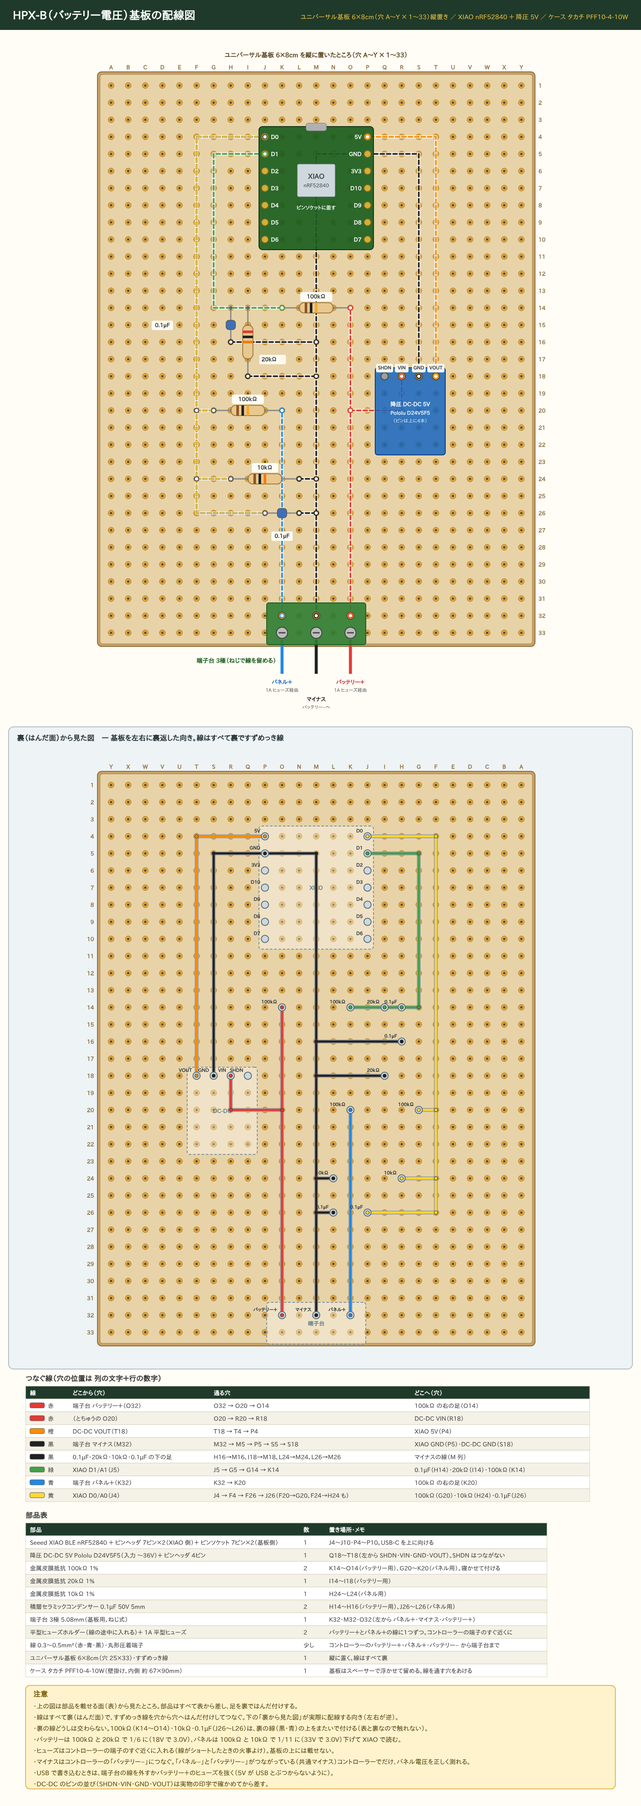
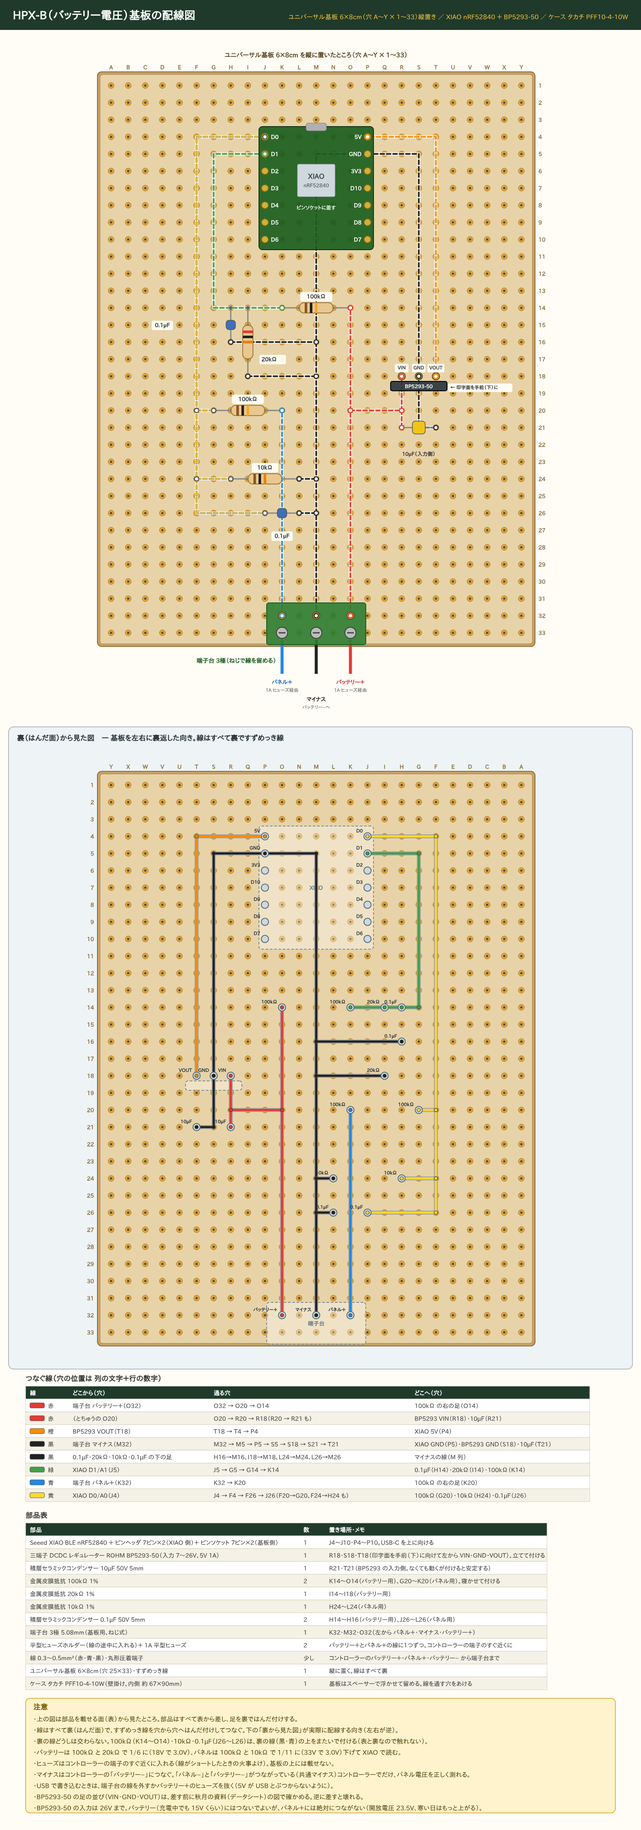
HPX-B: 降圧の部品を ROHM BP5293-50 (秋月) に変更、入力側に 10µF を追加
Claude-Session: https://claude.ai/code/session_01LCC9B6JQiGFYsm1dg11V69

Changed region(s): [[0.0307, 0.0, 0.9507, 1.0]]

diff --git a/site/device-b.html b/site/device-b.html
@@ -204,12 +204,13 @@
         <tr><td class="part"><b><a href="https://akizukidenshi.com/catalog/goods/search.aspx?keyword=%E9%87%91%E5%B1%9E%E7%9A%AE%E8%86%9C%E6%8A%B5%E6%8A%97+20k%CE%A9" target="_blank" rel="noopener">抵抗 20kΩ</a></b><span>金属皮膜抵抗 1/4W 20kΩ 1%</span></td><td class="shop">秋月電子通商</td><td class="n" data-v="数">1</td></tr>
         <tr><td class="part"><b><a href="https://akizukidenshi.com/catalog/g/g108550/" target="_blank" rel="noopener">抵抗 10kΩ</a></b><span>小型 金属皮膜抵抗 1/4W 10kΩ (100本入り)</span><span class="price">300円 / 100本入り</span></td><td class="shop">秋月電子通商</td><td class="n" data-v="数">1</td></tr>
         <tr><td class="part"><b><a href="https://akizukidenshi.com/catalog/g/g117059/" target="_blank" rel="noopener">積層セラミックコンデンサー 0.1μF50V C0G 5mm</a></b><span>コンデンサー0.1μF</span><span class="price">250円 / 10個入り</span></td><td class="shop">秋月電子通商</td><td class="n" data-v="数">2</td></tr>
+        <tr><td class="part"><b><a href="https://akizukidenshi.com/catalog/goods/search.aspx?keyword=%E7%A9%8D%E5%B1%A4%E3%82%BB%E3%83%A9%E3%83%9F%E3%83%83%E3%82%AF%E3%82%B3%E3%83%B3%E3%83%87%E3%83%B3%E3%82%B5%E3%83%BC+10%CE%BCF+50V" target="_blank" rel="noopener">コンデンサー 10μF</a></b><span>積層セラミックコンデンサー 10μF 50V 5mm (BP5293-50 の入力側)</span></td><td class="shop">秋月電子通商</td><td class="n" data-v="数">1</td></tr>
         <tr><td class="part"><b><a href="https://akizukidenshi.com/catalog/goods/search.aspx?keyword=%E3%82%BF%E3%83%BC%E3%83%9F%E3%83%8A%E3%83%AB%E3%83%96%E3%83%AD%E3%83%83%E3%82%AF+3P+5.08mm" target="_blank" rel="noopener">端子台 3極</a></b><span>基板用ねじ式端子台 3P 5.08mm</span></td><td class="shop">秋月電子通商</td><td class="n" data-v="数">1</td></tr>
         <tr><td class="part"><b><a href="https://akizukidenshi.com/catalog/g/g103138/" target="_blank" rel="noopener">ピンソケット（メス）</a></b><span>シングルピンソケット (低メス)</span><span class="price">80円 / 20PIN</span></td><td class="shop">秋月電子通商</td><td class="n" data-v="数">7PIN×2</td></tr>
         <tr><td class="part"><b><a href="https://akizukidenshi.com/catalog/g/g102900/" target="_blank" rel="noopener">ピンヘッダー（オス）</a></b><span>ロープロファイルピンヘッダー(低オス) 7.7mm</span><span class="price">40円 / 40PIN</span></td><td class="shop">秋月電子通商</td><td class="n" data-v="数">7PIN×2</td></tr>
         <tr><td class="part"><b><a href="https://www.amazon.co.jp/s?k=%E3%82%B9%E3%82%BA%E3%83%A1%E3%83%83%E3%82%AD%E7%B7%9A%20TCW%200.5mm%2010m" target="_blank" rel="noopener">ジャンパー線</a></b><span>スズメッキ軟銅線 TCW 0.5mm 10m</span><span class="price">670円 / 10m</span></td><td class="shop">amazon</td><td class="n" data-v="数">適宜</td></tr>
         <tr class="cat"><th colspan="3">電源</th></tr>
-        <tr><td class="part"><b><a href="https://www.pololu.com/search?query=D24V5F5" target="_blank" rel="noopener">降圧 DC-DC コンバーター 5V</a></b><span>Pololu D24V5F5 (入力 〜36V、出力 5V 500mA、ピンヘッダー付き)</span></td><td class="shop">Pololu</td><td class="n" data-v="数">1</td></tr>
+        <tr><td class="part"><b><a href="https://akizukidenshi.com/catalog/g/g111188/" target="_blank" rel="noopener">三端子DCDCレギュレーター 5V</a></b><span>ROHM BP5293-50 (入力 7〜26V、出力 5V 1A)</span></td><td class="shop">秋月電子通商</td><td class="n" data-v="数">1</td></tr>
         <tr class="cat"><th colspan="3">ケース</th></tr>
         <tr><td class="part"><b><a href="https://www.monotaro.com/p/5512/8535/" target="_blank" rel="noopener">壁付ネットワークケース PFFシリーズ</a></b><span>タカチ　PFF10-4-10W</span><span class="price">639円</span></td><td class="shop">モノタロウ</td><td class="n" data-v="数">1</td></tr>
         <tr class="cat"><th colspan="3">ケース用基板</th></tr>
@@ -233,18 +234,18 @@
       <h2>作り方</h2>
       <p class="note">図を押すと、大きな画像が開きます。どの図もまだ実物で組んで確かめていません。取付穴の位置は目安なので、部品と基板の実物で確かめてから組み立ててください。</p>
       <figure class="wiring">
-        <figcaption><b>配線図</b>6×8cm のユニバーサル基板を縦に置き、XIAO・降圧 DC-DC・抵抗・端子台を並べる図です (表と裏、線はすべて裏)。ケースは HPX-Core 有線LAN版と同じ PFF10-4-10W です。</figcaption>
+        <figcaption><b>配線図</b>6×8cm のユニバーサル基板を縦に置き、XIAO・三端子 DCDC レギュレーター・抵抗・端子台を並べる図です (表と裏、線はすべて裏)。ケースは HPX-Core 有線LAN版と同じ PFF10-4-10W です。</figcaption>
         <a href="img/wiring/HPX-B_pcb.png" target="_blank" rel="noopener"><img src="img/wiring/HPX-B_pcb.png" alt="HPX-B 配線図" loading="lazy"></a>
       </figure>
       <div class="wtab"><h3>つなぐ線（穴の位置は 列の文字＋行の数字）</h3><div class="scroll"><table>
         <thead><tr><th>線</th><th>どこから（穴）</th><th>通る穴</th><th>どこへ（穴）</th></tr></thead>
-        <tbody><tr><td class="wc"><span class="sw" style="background:#e53935"></span>赤</td><td>端子台 バッテリー＋（O32）</td><td>O32 → O20 → O14</td><td>100kΩ の右の足（O14）</td></tr><tr><td class="wc"><span class="sw" style="background:#e53935"></span>赤</td><td>（とちゅうの O20）</td><td>O20 → R20 → R18</td><td>DC-DC VIN（R18）</td></tr><tr><td class="wc"><span class="sw" style="background:#fb8c00"></span>橙</td><td>DC-DC VOUT（T18）</td><td>T18 → T4 → P4</td><td>XIAO 5V（P4）</td></tr><tr><td class="wc"><span class="sw" style="background:#212121"></span>黒</td><td>端子台 マイナス（M32）</td><td>M32 → M5 → P5 → S5 → S18</td><td>XIAO GND（P5）・DC-DC GND（S18）</td></tr><tr><td class="wc"><span class="sw" style="background:#212121"></span>黒</td><td>0.1µF・20kΩ・10kΩ・0.1µF の下の足</td><td>H16→M16、I18→M18、L24→M24、L26→M26</td><td>マイナスの線（M 列）</td></tr><tr><td class="wc"><span class="sw" style="background:#43a047"></span>緑</td><td>XIAO D1/A1（J5）</td><td>J5 → G5 → G14 → K14</td><td>0.1µF（H14）・20kΩ（I14）・100kΩ（K14）</td></tr><tr><td class="wc"><span class="sw" style="background:#1e88e5"></span>青</td><td>端子台 パネル＋（K32）</td><td>K32 → K20</td><td>100kΩ の右の足（K20）</td></tr><tr><td class="wc"><span class="sw" style="background:#fdd835"></span>黄</td><td>XIAO D0/A0（J4）</td><td>J4 → F4 → F26 → J26（F20→G20、F24→H24 も）</td><td>100kΩ（G20）・10kΩ（H24）・0.1µF（J26）</td></tr></tbody>
+        <tbody><tr><td class="wc"><span class="sw" style="background:#e53935"></span>赤</td><td>端子台 バッテリー＋（O32）</td><td>O32 → O20 → O14</td><td>100kΩ の右の足（O14）</td></tr><tr><td class="wc"><span class="sw" style="background:#e53935"></span>赤</td><td>（とちゅうの O20）</td><td>O20 → R20 → R18（R20 → R21 も）</td><td>BP5293 VIN（R18）・10µF（R21）</td></tr><tr><td class="wc"><span class="sw" style="background:#fb8c00"></span>橙</td><td>BP5293 VOUT（T18）</td><td>T18 → T4 → P4</td><td>XIAO 5V（P4）</td></tr><tr><td class="wc"><span class="sw" style="background:#212121"></span>黒</td><td>端子台 マイナス（M32）</td><td>M32 → M5 → P5 → S5 → S18 → S21 → T21</td><td>XIAO GND（P5）・BP5293 GND（S18）・10µF（T21）</td></tr><tr><td class="wc"><span class="sw" style="background:#212121"></span>黒</td><td>0.1µF・20kΩ・10kΩ・0.1µF の下の足</td><td>H16→M16、I18→M18、L24→M24、L26→M26</td><td>マイナスの線（M 列）</td></tr><tr><td class="wc"><span class="sw" style="background:#43a047"></span>緑</td><td>XIAO D1/A1（J5）</td><td>J5 → G5 → G14 → K14</td><td>0.1µF（H14）・20kΩ（I14）・100kΩ（K14）</td></tr><tr><td class="wc"><span class="sw" style="background:#1e88e5"></span>青</td><td>端子台 パネル＋（K32）</td><td>K32 → K20</td><td>100kΩ の右の足（K20）</td></tr><tr><td class="wc"><span class="sw" style="background:#fdd835"></span>黄</td><td>XIAO D0/A0（J4）</td><td>J4 → F4 → F26 → J26（F20→G20、F24→H24 も）</td><td>100kΩ（G20）・10kΩ（H24）・0.1µF（J26）</td></tr></tbody>
       </table></div></div>
       <div class="wtab"><h3>部品の置き場所</h3><div class="scroll"><table>
         <thead><tr><th>部品</th><th>数</th><th>置き場所・メモ</th></tr></thead>
-        <tbody><tr><td>Seeed XIAO BLE nRF52840 ＋ ピンヘッダ 7ピン×2（XIAO 側）＋ ピンソケット 7ピン×2（基板側）</td><td>1</td><td>J4〜J10・P4〜P10。USB-C を上に向ける</td></tr><tr><td>降圧 DC-DC 5V Pololu D24V5F5（入力 〜36V）＋ ピンヘッダ 4ピン</td><td>1</td><td>Q18〜T18（左から SHDN・VIN・GND・VOUT）。SHDN はつながない</td></tr><tr><td>金属皮膜抵抗 100kΩ 1%</td><td>2</td><td>K14〜O14（バッテリー用）、G20〜K20（パネル用）。寝かせて付ける</td></tr><tr><td>金属皮膜抵抗 20kΩ 1%</td><td>1</td><td>I14〜I18（バッテリー用）</td></tr><tr><td>金属皮膜抵抗 10kΩ 1%</td><td>1</td><td>H24〜L24（パネル用）</td></tr><tr><td>積層セラミックコンデンサー 0.1µF 50V 5mm</td><td>2</td><td>H14〜H16（バッテリー用）、J26〜L26（パネル用）</td></tr><tr><td>端子台 3極 5.08mm（基板用、ねじ式）</td><td>1</td><td>K32・M32・O32（左から パネル＋・マイナス・バッテリー＋）</td></tr><tr><td>平型ヒューズホルダー（線の途中に入れる）＋ 1A 平型ヒューズ</td><td>2</td><td>バッテリー＋とパネル＋の線に1つずつ。コントローラーの端子のすぐ近くに</td></tr><tr><td>線 0.3〜0.5mm²（赤・青・黒）・丸形圧着端子</td><td>少し</td><td>コントローラーのバッテリー＋・パネル＋・バッテリー− から端子台まで</td></tr><tr><td>ユニバーサル基板 6×8cm（穴 25×33）・すずめっき線</td><td>1</td><td>縦に置く。線はすべて裏</td></tr><tr><td>ケース タカチ PFF10-4-10W（壁掛け、内側 約 67×90mm）</td><td>1</td><td>基板はスペーサーで浮かせて留める。線を通す穴をあける</td></tr></tbody>
+        <tbody><tr><td>Seeed XIAO BLE nRF52840 ＋ ピンヘッダ 7ピン×2（XIAO 側）＋ ピンソケット 7ピン×2（基板側）</td><td>1</td><td>J4〜J10・P4〜P10。USB-C を上に向ける</td></tr><tr><td>三端子 DCDC レギュレーター ROHM BP5293-50（入力 7〜26V、5V 1A）</td><td>1</td><td>R18・S18・T18（印字面を手前（下）に向けて左から VIN・GND・VOUT）。立てて付ける</td></tr><tr><td>積層セラミックコンデンサー 10µF 50V 5mm</td><td>1</td><td>R21・T21（BP5293 の入力側。なくても動くが付けると安定する）</td></tr><tr><td>金属皮膜抵抗 100kΩ 1%</td><td>2</td><td>K14〜O14（バッテリー用）、G20〜K20（パネル用）。寝かせて付ける</td></tr><tr><td>金属皮膜抵抗 20kΩ 1%</td><td>1</td><td>I14〜I18（バッテリー用）</td></tr><tr><td>金属皮膜抵抗 10kΩ 1%</td><td>1</td><td>H24〜L24（パネル用）</td></tr><tr><td>積層セラミックコンデンサー 0.1µF 50V 5mm</td><td>2</td><td>H14〜H16（バッテリー用）、J26〜L26（パネル用）</td></tr><tr><td>端子台 3極 5.08mm（基板用、ねじ式）</td><td>1</td><td>K32・M32・O32（左から パネル＋・マイナス・バッテリー＋）</td></tr><tr><td>平型ヒューズホルダー（線の途中に入れる）＋ 1A 平型ヒューズ</td><td>2</td><td>バッテリー＋とパネル＋の線に1つずつ。コントローラーの端子のすぐ近くに</td></tr><tr><td>線 0.3〜0.5mm²（赤・青・黒）・丸形圧着端子</td><td>少し</td><td>コントローラーのバッテリー＋・パネル＋・バッテリー− から端子台まで</td></tr><tr><td>ユニバーサル基板 6×8cm（穴 25×33）・すずめっき線</td><td>1</td><td>縦に置く。線はすべて裏</td></tr><tr><td>ケース タカチ PFF10-4-10W（壁掛け、内側 約 67×90mm）</td><td>1</td><td>基板はスペーサーで浮かせて留める。線を通す穴をあける</td></tr></tbody>
       </table></div></div>
-      <div class="wnote"><h3>注意</h3><ul><li>上の図は部品を載せる面（表）から見たところ。部品はすべて表から差し、足を裏ではんだ付けする。</li><li>線はすべて裏（はんだ面）で、すずめっき線を穴から穴へはんだ付けしてつなぐ。下の「裏から見た図」が実際に配線する向き（左右が逆）。</li><li>裏の線どうしは交わらない。100kΩ（K14〜O14）・10kΩ・0.1µF（J26〜L26）は、裏の線（黒・青）の上をまたいで付ける（表と裏なので触れない）。</li><li>バッテリーは 100kΩ と 20kΩ で 1/6 に（18V で 3.0V）、パネルは 100kΩ と 10kΩ で 1/11 に（33V で 3.0V）下げて XIAO で読む。</li><li>ヒューズはコントローラーの端子のすぐ近くに入れる（線がショートしたときの火事よけ）。基板の上には載せない。</li><li>マイナスはコントローラーの「バッテリー−」につなぐ。「パネル−」と「バッテリー−」がつながっている（共通マイナス）コントローラーでだけ、パネル電圧を正しく測れる。</li><li>USB で書き込むときは、端子台の線を外すかバッテリー＋のヒューズを抜く（5V が USB とぶつからないように）。</li><li>DC-DC のピンの並び（SHDN・VIN・GND・VOUT）は実物の印字で確かめてから差す。</li></ul></div>
+      <div class="wnote"><h3>注意</h3><ul><li>上の図は部品を載せる面（表）から見たところ。部品はすべて表から差し、足を裏ではんだ付けする。</li><li>線はすべて裏（はんだ面）で、すずめっき線を穴から穴へはんだ付けしてつなぐ。下の「裏から見た図」が実際に配線する向き（左右が逆）。</li><li>裏の線どうしは交わらない。100kΩ（K14〜O14）・10kΩ・0.1µF（J26〜L26）は、裏の線（黒・青）の上をまたいで付ける（表と裏なので触れない）。</li><li>バッテリーは 100kΩ と 20kΩ で 1/6 に（18V で 3.0V）、パネルは 100kΩ と 10kΩ で 1/11 に（33V で 3.0V）下げて XIAO で読む。</li><li>ヒューズはコントローラーの端子のすぐ近くに入れる（線がショートしたときの火事よけ）。基板の上には載せない。</li><li>マイナスはコントローラーの「バッテリー−」につなぐ。「パネル−」と「バッテリー−」がつながっている（共通マイナス）コントローラーでだけ、パネル電圧を正しく測れる。</li><li>USB で書き込むときは、端子台の線を外すかバッテリー＋のヒューズを抜く（5V が USB とぶつからないように）。</li><li>BP5293-50 の足の並び（VIN・GND・VOUT）は、差す前に秋月の資料（データシート）の図で確かめる。逆に差すと壊れる。</li><li>BP5293-50 の入力は 26V まで。バッテリー（充電中でも 15V くらい）にはつないでよいが、パネル＋には絶対につながない（開放電圧 23.5V、寒い日はもっと上がる）。</li></ul></div>
       <div class="soonbox">組み立ての手順は、準備ができしだい掲載します。</div>
       <a class="back" href="devices.html">機器の一覧へ戻る</a>
     </div>

diff --git a/hardware/wiring/gen_pcb.py b/hardware/wiring/gen_pcb.py
@@ -833,7 +833,7 @@ finish(s, y, [
 # ================================================================== HPX-B バッテリー電圧（6×8cm 基板、ケース PFF10-4-10W）
 OX, OY = 260, 200
 s = S(1500, 3200)
-title(s, "HPX-B（バッテリー電圧）基板の配線図", "ユニバーサル基板 6×8cm（穴 A〜Y × 1〜33）縦置き ／ XIAO nRF52840 ＋ 降圧 5V ／ ケース タカチ PFF10-4-10W")
+title(s, "HPX-B（バッテリー電圧）基板の配線図", "ユニバーサル基板 6×8cm（穴 A〜Y × 1〜33）縦置き ／ XIAO nRF52840 ＋ BP5293-50 ／ ケース タカチ PFF10-4-10W")
 board(s, 25, 33, "ユニバーサル基板 6×8cm を縦に置いたところ（穴 A〜Y × 1〜33）")
 
 def hole(h):
@@ -865,19 +865,19 @@ def cap_b(a, b, lpos, anchor="start"):
 # XIAO（USB-C が上）。左の列 J4〜J10（D0〜D6）、右の列 P4〜P10（5V, GND, 3V3, D10〜D7）
 p = xiao_pcb(s, Lc("J"), R(4))
 
-# 降圧 DC-DC（Pololu D24V5F5）。ピンは Q18〜T18（左から SHDN・VIN・GND・VOUT）、本体は下へ
-x1, y1 = H(Lc("Q"), R(18)); x2, _ = H(Lc("T"), R(18))
-s.top.append(f'<rect x="{x1-22}" y="{y1-20}" width="{x2-x1+44}" height="{4*P+44}" rx="6" fill="#1565c0" fill-opacity="0.85" stroke="#0d3c7a" stroke-width="2"/>')
-rec_part(x1 - 22, y1 - 20, x2 - x1 + 44, 4 * P + 44, "DC-DC")
-s.text((x1 + x2) / 2, y1 + 70, "降圧 DC-DC 5V", 13, "middle", "bold", "#fff", layer=s.top)
-s.text((x1 + x2) / 2, y1 + 90, "Pololu D24V5F5", 12, "middle", "bold", "#e3f2fd", layer=s.top)
-s.text((x1 + x2) / 2, y1 + 108, "（ピンは上に4本）", 11, "middle", fill="#e3f2fd", layer=s.top)
-for i, n in enumerate(["SHDN", "VIN", "GND", "VOUT"]):
-    x, y = H(Lc("Q") + i, R(18))
+# 三端子 DCDC レギュレーター ROHM BP5293-50（7〜26V → 5V 1A）。足は R18・S18・T18（印字面を下＝手前に向けて左から VIN・GND・VOUT）。立てて付ける
+x1, y1 = H(Lc("R"), R(18)); x2, _ = H(Lc("T"), R(18))
+s.top.append(f'<rect x="{x1-26}" y="{y1+12}" width="{x2-x1+52}" height="22" rx="4" fill="#263238" fill-opacity="0.9" stroke="#000" stroke-width="2"/>')
+rec_part(x1 - 26, y1 + 12, x2 - x1 + 52, 22, "")
+s.text((x1 + x2) / 2, y1 + 28, "BP5293-50", 12, "middle", "bold", "#fff", layer=s.top)
+tag(x2 + 34, y1 + 30, "← 印字面を手前（下）に", 11, "start", w=150)
+for i, n in enumerate(["VIN", "GND", "VOUT"]):
+    x, y = H(Lc("R") + i, R(18))
     rec_pin(x, y, n)
-    on = n != "SHDN"
-    s.top.append(f'<circle cx="{x}" cy="{y}" r="8.5" fill="{"#d4af37" if on else "#9e9e9e"}" stroke="#5d4520" stroke-width="2"/>')
+    s.top.append(f'<circle cx="{x}" cy="{y}" r="8.5" fill="#d4af37" stroke="#5d4520" stroke-width="2"/>')
     tag(x, y - 16, n, 11, "middle", w=len(n) * 8 + 8)
+s.text((x1 + x2) / 2, H(0, R(22))[1] + 26, "10µF（入力側）", 12, "middle", "bold", "#333", layer=s.top)
+cap_flat(s, hole("R21"), hole("T21"), "10µF", True)
 
 # 端子台 3極（5.08mm）。K32 = パネル＋、M32 = マイナス、O32 = バッテリー＋。線を入れる口は下向き
 x1, y1 = H(Lc("K"), R(32)); x2, _ = H(Lc("O"), R(32))
@@ -910,14 +910,16 @@ res_flat("H24", "L24", "10kΩ", ["#8d5524", "#212121", "#f57c00"], (H(Lc("J"), 0
 cap_b("J26", "L26", (H(Lc("K"), 0)[0], H(0, R(27))[1] + 18), "middle")
 
 # 裏の線
-w("black",  "M32", "M26", "M24", "M18", "M16", "M5", "P5", "S5", "S18")   # マイナス（真ん中の背骨）→ XIAO GND → DC-DC GND
+w("black",  "M32", "M26", "M24", "M18", "M16", "M5", "P5", "S5", "S18")   # マイナス（真ん中の背骨）→ XIAO GND → BP5293 GND
+w("black",  "S18", "S21", "T21")                                    # BP5293 GND → 10µF
 w("black",  "H16", "M16")                                           # 0.1µF（バッテリー側）→ マイナス
 w("black",  "I18", "M18")                                           # 20kΩ → マイナス
 w("black",  "L24", "M24")                                           # 10kΩ → マイナス
 w("black",  "L26", "M26")                                           # 0.1µF（パネル側）→ マイナス
 w("red",    "O32", "O20", "O14")                                    # バッテリー＋ → 100kΩ
-w("red",    "O20", "R20", "R18")                                    # バッテリー＋ → DC-DC VIN
-w("orange", "T18", "T4", "P4")                                      # DC-DC VOUT → XIAO 5V
+w("red",    "O20", "R20", "R18")                                    # バッテリー＋ → BP5293 VIN
+w("red",    "R20", "R21")                                           # → 10µF
+w("orange", "T18", "T4", "P4")                                      # BP5293 VOUT → XIAO 5V
 w("green",  "J5", "G5", "G14", "H14", "I14", "K14")                 # バッテリーの測る点 → XIAO D1(A1)
 w("blue",   "K32", "K20")                                           # パネル＋ → 100kΩ
 w("yellow", "J4", "F4", "F20", "F24", "F26", "J26")                 # パネルの測る点 → XIAO D0(A0)
@@ -927,9 +929,9 @@ yb = back_section(s, OY + (NR - 1) * P + 220, "HPX-B_pcb.svg")
 y = table(s, 60, yb + 40, [
     ["線", "どこから（穴）", "通る穴", "どこへ（穴）"],
     ["red", "端子台 バッテリー＋（O32）", "O32 → O20 → O14", "100kΩ の右の足（O14）"],
-    ["red", "（とちゅうの O20）", "O20 → R20 → R18", "DC-DC VIN（R18）"],
-    ["orange", "DC-DC VOUT（T18）", "T18 → T4 → P4", "XIAO 5V（P4）"],
-    ["black", "端子台 マイナス（M32）", "M32 → M5 → P5 → S5 → S18", "XIAO GND（P5）・DC-DC GND（S18）"],
+    ["red", "（とちゅうの O20）", "O20 → R20 → R18（R20 → R21 も）", "BP5293 VIN（R18）・10µF（R21）"],
+    ["orange", "BP5293 VOUT（T18）", "T18 → T4 → P4", "XIAO 5V（P4）"],
+    ["black", "端子台 マイナス（M32）", "M32 → M5 → P5 → S5 → S18 → S21 → T21", "XIAO GND（P5）・BP5293 GND（S18）・10µF（T21）"],
     ["black", "0.1µF・20kΩ・10kΩ・0.1µF の下の足", "H16→M16、I18→M18、L24→M24、L26→M26", "マイナスの線（M 列）"],
     ["green", "XIAO D1/A1（J5）", "J5 → G5 → G14 → K14", "0.1µF（H14）・20kΩ（I14）・100kΩ（K14）"],
     ["blue", "端子台 パネル＋（K32）", "K32 → K20", "100kΩ の右の足（K20）"],
@@ -938,7 +940,8 @@ y = table(s, 60, yb + 40, [
 y = table(s, 60, y + 50, [
     ["部品", "数", "置き場所・メモ"],
     ["Seeed XIAO BLE nRF52840 ＋ ピンヘッダ 7ピン×2（XIAO 側）＋ ピンソケット 7ピン×2（基板側）", "1", "J4〜J10・P4〜P10。USB-C を上に向ける"],
-    ["降圧 DC-DC 5V Pololu D24V5F5（入力 〜36V）＋ ピンヘッダ 4ピン", "1", "Q18〜T18（左から SHDN・VIN・GND・VOUT）。SHDN はつながない"],
+    ["三端子 DCDC レギュレーター ROHM BP5293-50（入力 7〜26V、5V 1A）", "1", "R18・S18・T18（印字面を手前（下）に向けて左から VIN・GND・VOUT）。立てて付ける"],
+    ["積層セラミックコンデンサー 10µF 50V 5mm", "1", "R21・T21（BP5293 の入力側。なくても動くが付けると安定する）"],
     ["金属皮膜抵抗 100kΩ 1%", "2", "K14〜O14（バッテリー用）、G20〜K20（パネル用）。寝かせて付ける"],
     ["金属皮膜抵抗 20kΩ 1%", "1", "I14〜I18（バッテリー用）"],
     ["金属皮膜抵抗 10kΩ 1%", "1", "H24〜L24（パネル用）"],
@@ -957,6 +960,7 @@ finish(s, y, [
     "・ヒューズはコントローラーの端子のすぐ近くに入れる（線がショートしたときの火事よけ）。基板の上には載せない。",
     "・マイナスはコントローラーの「バッテリー−」につなぐ。「パネル−」と「バッテリー−」がつながっている（共通マイナス）コントローラーでだけ、パネル電圧を正しく測れる。",
     "・USB で書き込むときは、端子台の線を外すかバッテリー＋のヒューズを抜く（5V が USB とぶつからないように）。",
-    "・DC-DC のピンの並び（SHDN・VIN・GND・VOUT）は実物の印字で確かめてから差す。",
+    "・BP5293-50 の足の並び（VIN・GND・VOUT）は、差す前に秋月の資料（データシート）の図で確かめる。逆に差すと壊れる。",
+    "・BP5293-50 の入力は 26V まで。バッテリー（充電中でも 15V くらい）にはつないでよいが、パネル＋には絶対につながない（開放電圧 23.5V、寒い日はもっと上がる）。",
 ], "HPX-B_pcb.svg")
 print("ok")

diff --git a/hardware/parts/gen_device_pages.py b/hardware/parts/gen_device_pages.py
@@ -59,9 +59,9 @@ DEVICES = [
          variants=[('b', '数')], note='',
          cats=['チップボード', '電子部品', '電源', 'ケース', 'ケース用基板', '部材', 'ケーブル'],
          no_cost_note=True,   # 値段をまだ入れていない部品がある
-         order=['抵抗 100kΩ', '抵抗 20kΩ', '抵抗 10kΩ', '積層セラミックコンデンサー 0.1μF50V C0G 5mm', '端子台 3極',
+         order=['抵抗 100kΩ', '抵抗 20kΩ', '抵抗 10kΩ', '積層セラミックコンデンサー 0.1μF50V C0G 5mm', 'コンデンサー 10μF', '端子台 3極',
                 'ピンソケット（メス）', 'ピンヘッダー（オス）', 'ジャンパー線'],
-         wiring=[('HPX-B_pcb.png', '配線図', '6×8cm のユニバーサル基板を縦に置き、XIAO・降圧 DC-DC・抵抗・端子台を並べる図です (表と裏、線はすべて裏)。ケースは HPX-Core 有線LAN版と同じ PFF10-4-10W です。')],
+         wiring=[('HPX-B_pcb.png', '配線図', '6×8cm のユニバーサル基板を縦に置き、XIAO・三端子 DCDC レギュレーター・抵抗・端子台を並べる図です (表と裏、線はすべて裏)。ケースは HPX-Core 有線LAN版と同じ PFF10-4-10W です。')],
          extra=('※ソーラーチャージャー（充電コントローラー）の「パネル−」と「バッテリー−」がつながっている（共通マイナス）機種でだけ、パネル電圧を正しく測れます。コントローラーの線を外し、テスターの導通モードで確かめてください。一部の部品はまだ値段を入れていないので、部品代の目安には入っていません。ファームウェアは準備中です。',
                 [])),
 ]

diff --git a/hardware/wiring/README.md b/hardware/wiring/README.md
@@ -12,7 +12,7 @@
 | HPX-Core 防水Wi-Fi－USB給電版 | [HPX-Core_wiring.png](HPX-Core_wiring.png) | Olimex ESP32-DEVKIT-LIPO。外付けの配線なし。防水USBカプラー (USB-C) から USB-C to MicroUSB ケーブルで給電 |
 | HPX-Core 有線LAN (付けたいときだけ) | [HPX-Core_LAN_pcb.png](HPX-Core_LAN_pcb.png) (6×8cm 基板に組む図)・[HPX-Core_LAN_wiring.png](HPX-Core_LAN_wiring.png) (線の対応) | ELEGOO ESP-32 + W5500 (ACEIRMC): SCK=D18, MI=D4, MO=D23, CS=D5, INT=TX2(GPIO17), RST=RX2(GPIO16), V=3V3, G=GND (HPX_Core v1.20 以降、接続方法を「有線LAN」に)。USB 電源 |
 | HPX-Core 防水Wi-Fi－電池版 | [HPX-Core_BAT_pcb.png](HPX-Core_BAT_pcb.png) (ケース用基板 PCB36-47 に組む図) | Olimex ESP32-DEVKIT-LIPO の 5V (左の列のピン19) ← 単三リチウム×3 の＋、GND (左の列のピン14) ← −。BAT コネクタは使わない。動作モードはディープスリープ |
-| HPX-B (バッテリー電圧、試作中) | [HPX-B_pcb.png](HPX-B_pcb.png) (6×8cm 基板、ケース タカチ PFF10-4-10W) | バッテリー＋ → 100kΩ/20kΩ → D1(A1)、パネル＋ → 100kΩ/10kΩ → D0(A0)、降圧 DC-DC 5V (Pololu D24V5F5) → 5V。端子台 3極 (パネル＋・マイナス・バッテリー＋)、ヒューズ 1A×2 は線の途中。ファームはまだ無い |
+| HPX-B (バッテリー電圧、試作中) | [HPX-B_pcb.png](HPX-B_pcb.png) (6×8cm 基板、ケース タカチ PFF10-4-10W) | バッテリー＋ → 100kΩ/20kΩ → D1(A1)、パネル＋ → 100kΩ/10kΩ → D0(A0)、三端子 DCDC レギュレーター BP5293-50 (ROHM、入力 7〜26V) → 5V、入力側 10µF。端子台 3極 (パネル＋・マイナス・バッテリー＋)、ヒューズ 1A×2 は線の途中。ファームはまだ無い |
 
 部品表は [部品表.md](部品表.md) にあります。
 
@@ -26,7 +26,7 @@
 - HPX-A の CdS セルで警報器の点滅を数えられるか (CdS は反応が遅め)
 - SHT40 モジュール・HX711 モジュールのピンの並び (基板の印字で確認)
 - 基板の図は実際に組んで確かめていません
-- HPX-B: DC-DC (D24V5F5) のピンの並び、PFF10-4-10W の内側の寸法と基板の留め方、使うソーラーコントローラーが共通マイナスか (違うとパネル電圧は測れない) は未確認
+- HPX-B: BP5293-50 の足の並び (データシートで確認)、PFF10-4-10W の内側の寸法と基板の留め方、使うソーラーコントローラーが共通マイナスか (違うとパネル電圧は測れない) は未確認
 - HPX-Core の有線LAN (W5500) は実機で確かめていません (ファーム v1.20 はコンパイルだけ確認)。ESP-32 の左右のピン列 10穴・W5500 の左右のピン列 8穴は計算で、実物では未確認。W5500 のピンがモジュールの上下のどこにあるかも未確認
 - HPX-Core 電池版: PCB36-47 の穴の数 (13×17) は見込み。ケースの深さに収まるか、Olimex の 5V 端子の先の HX6211 の入力上限 (販売店の資料で 6V) は未確認
 
